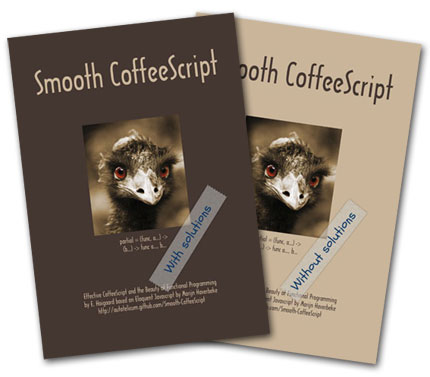
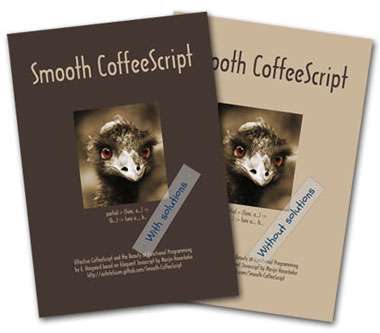
Updated web site with the interactive edition

diff --git a/index.html b/index.html
@@ -23,13 +23,46 @@
 
 			<div class="single_post">
 				<article>
-						<figure>
-							<img src="img/SmoothCovers.jpg" alt="covers" />
-						</figure>
-					<span class="more"><a href="info.html">Notes</a></span>
-					<span class="more"><a href="literate/goodies.html">Goodies</a></span>
-					<span class="more"><a href="Smooth%20CoffeeScript%20Web%20Optimized.pdf">View pdf</a></span>
-					<span class="more"><a href="SmoothCoffeeScript.html">View html</a></span>
+						<figure><center>
+							<a href="interactive/interactive-coffeescript.html">
+							    <img src="img/SmoothCoverWeb.png" alt="interactive" />
+							</a>
+						</center></figure>
+				</article>
+			</div>
+
+			<div class="single_post">
+				<article>
+					<div class="mainart">
+						<header class="post_head">
+							<h2><a href="interactive/interactive-coffeescript.html">CoffeeScript in the browser</a></h2>
+						</header>
+						<p>Try CoffeeScript in your HTML 5 web browser. Edit examples,
+						run programs, solve exercises without installation or plug-ins.
+						Compatible with up-to-date desktop browsers and Mobile Safari
+						even offline.</p><br />
+						<p>Smooth CoffeeScript is a book about CoffeeScript and
+						programming. Start with programming fundamentals, learn about
+						functional programming with Underscore and problem solving,
+						study object orientation and modularity. It covers
+						client/server web apps with Canvas and WebSockets.</p><br />
+						<p>No previous programming knowledge is required. CoffeeScript
+						lets you write web oriented applications simply and elegantly.
+						It is closely related to JavaScript but without its quirky corners.
+						Together with the <a href="literate/js-intro.html">JavaScript Basics</a>
+			            supplement you can learn both at once.</p><br /><br />
+					</div>
+					<span class="more"><a href="literate/goodies.html">Quick References & Goodies</a></span>
+					<span class="more"><a href="interactive/interactive-coffeescript.html">Interactive HTML 5 Edition</a></span>
+				</article>
+			</div>
+
+
+			<div class="single_post">
+				<article>
+					<figure><center>
+						<img src="img/SmoothCovers.jpg" alt="covers" />
+					</center></figure>
 				</article>
 			</div>
 
@@ -39,25 +72,18 @@
 						<header class="post_head">
 							<h2><a href="https://github.com/autotelicum/Smooth-CoffeeScript">Programming in CoffeeScript</a></h2>
 						</header>
-						<p>Smooth CoffeeScript is a free book about CoffeeScript and
-			        programming. Over 200 pages to guide you and 35 exercises to
-			        solve.</p><br />
-			      <p>Go from scratch through functional programming in
-			        Underscore over object orientation to a client and server web
-			        application with HTML5 Canvas and WebSockets.</p><br />
-						<p>No previous programming knowledge is required. If you already
-			        know a scripting language then scan through the Language part
-			        and dive into the Paradigm chapters.
-			        The <a href="literate/js-intro.html">JavaScript Basics</a>
-			        supplement contains enough information to handle JavaScript
-			        debugging and libraries.</p><br />
-						<p>There are two editions of the book: with and without solutions.
-						  The download includes both, all source code and a <a href="CoffeeScript Quick Ref.pdf">Quick Reference</a>.</p><br />
-						<p>You will need to install CoffeeScript; see below or at
-						   <a href="http://jashkenas.github.com/coffee-script/#installation">coffeescript.org</a></p><br />
+						<p>Smooth CoffeeScript is also available in static HTML ebook form
+						and in PDF typeset for print (200+ pages, 35 exercises, with or without solutions).</p><br />
+						<p>You can download all editions, quick references and source code for examples and books from the
+						<a href="https://github.com/autotelicum/Smooth-CoffeeScript/archives/master">open source repository</a>.</p><br />
+						<p>Install CoffeeScript to get the most out of the static editions.
+						It is easy on Windows and Mac OS X:
+						<a href="literate/install-notes.html">How to install CoffeeScript</a>.</p><br />
+						<p>Learn more about CoffeeScript at <a href="http://jashkenas.github.com/coffee-script/">coffeescript.org</a>.</p><br />
 					</div>
-					<span class="more"><a href="literate/install-notes.html">How to install CoffeeScript</a></span>
-					<span class="more"><a href="https://github.com/autotelicum/Smooth-CoffeeScript/archives/master">Download Smooth CoffeeScript</a></span>
+					<span class="more"><a href="info.html">Notes</a></span>
+					<span class="more"><a href="Smooth%20CoffeeScript%20Web%20Optimized.pdf">Typeset PDF</a></span>
+					<span class="more"><a href="SmoothCoffeeScript.html">Static HTML ebook</a></span>
 				</article>
 			</div>
 		</section>

diff --git a/SmoothCoffeeScript.html b/SmoothCoffeeScript.html
@@ -17,13 +17,21 @@
 <div id="globalWrapper" onclick="void(0)">
 <div class="center"><img class="embedded" src="img/SmoothCoverWithSolutions.jpg" alt="figure img/SmoothCoverWithSolutions.jpg" style="width: 70%; height: auto;"/></div>
 
+<center><h3><span class="large"><br />
+<a href="interactive/interactive-coffeescript.html">Try the Interactive HTML 5 Edition.</a>
+<br /></span></h3></center>
+
+<div class="Standard">
+<div class="center">
+<span class="formula">○•○</span>
+</div>
+</div>
+
 <h1 class="title">
-<span class="sans"><span class="large">Smooth CoffeeScript</span></span>
+<span class="sans"><h1><span class="large">Smooth CoffeeScript</span></h1></span>
 </h1>
 <div class="center">
-<div class="author">
-E. Hoigaard
-</div>
+
 <div class="Publishers">
 <span class="large"><a class="URL" href="http://autotelicum.github.com/Smooth-CoffeeScript">http://autotelicum.github.com/Smooth-CoffeeScript</a></span>
 </div>
@@ -42,6 +50,10 @@ in any way you see fit, as long as credit is given to the original author.<br/>
 <br/>
 1<sup>st</sup> edition, 3<sup>rd</sup> revision &amp; illustrations © 2554 <a class="URL" href="http://www.accesstoinsight.org/history.html#fn-1">BE</a> / 2011 <a class="URL" href="http://www.accesstoinsight.org/history.html#fn-2">CE</a>.<br/>
 <a class="URL" href="http://www.publicdomainpictures.net/view-image.php?image=11133&amp;picture=ostriches-look">Public domain cover photo</a>.
+<div class="author">
+E. Hoigaard
+</div>
+
 </div></div>
 <div class="fulltoc">
 <div class="tocheader">
